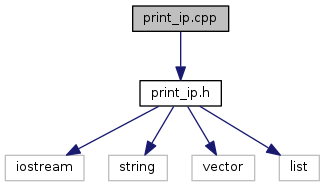
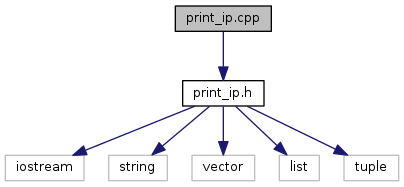
Deploy TiBxq/otus_cpp_h4 to github.com/TiBxq/otus_cpp_h4.git:gh-pages

diff --git a/print__ip_8h_source.html b/print__ip_8h_source.html
@@ -85,10 +85,10 @@ var searchBox = new SearchBox("searchBox", "search",false,'Search');
 <div class="title">print_ip.h</div>  </div>
 </div><!--header-->
 <div class="contents">
-<a href="print__ip_8h.html">Go to the documentation of this file.</a><div class="fragment"><div class="line"><a name="l00001"></a><span class="lineno">    1</span>&#160;<span class="preprocessor">#include &lt;iostream&gt;</span></div><div class="line"><a name="l00002"></a><span class="lineno">    2</span>&#160;<span class="preprocessor">#include &lt;string&gt;</span></div><div class="line"><a name="l00003"></a><span class="lineno">    3</span>&#160;<span class="preprocessor">#include &lt;vector&gt;</span></div><div class="line"><a name="l00004"></a><span class="lineno">    4</span>&#160;<span class="preprocessor">#include &lt;list&gt;</span></div><div class="line"><a name="l00005"></a><span class="lineno">    5</span>&#160;</div><div class="line"><a name="l00006"></a><span class="lineno"><a class="line" href="print__ip_8h.html#a45e94606e7bad962ffc17961ee1293c2">    6</a></span>&#160;<span class="keyword">const</span> <span class="keywordtype">int</span> <a class="code" href="print__ip_8h.html#a45e94606e7bad962ffc17961ee1293c2">c_byteSize</a> = 8;</div><div class="line"><a name="l00007"></a><span class="lineno">    7</span>&#160;</div><div class="line"><a name="l00008"></a><span class="lineno">    8</span>&#160;<span class="keyword">template</span>&lt;<span class="keyword">typename</span> T&gt;</div><div class="line"><a name="l00009"></a><span class="lineno"><a class="line" href="structis__vector.html">    9</a></span>&#160;<span class="keyword">struct </span><a class="code" href="structis__vector.html">is_vector</a> : <span class="keyword">public</span> std::false_type {};</div><div class="line"><a name="l00010"></a><span class="lineno">   10</span>&#160;</div><div class="line"><a name="l00011"></a><span class="lineno">   11</span>&#160;<span class="keyword">template</span>&lt;<span class="keyword">typename</span> T, <span class="keyword">typename</span> A&gt;</div><div class="line"><a name="l00012"></a><span class="lineno"><a class="line" href="structis__vector_3_01std_1_1vector_3_01_t_00_01_a_01_4_01_4.html">   12</a></span>&#160;<span class="keyword">struct </span><a class="code" href="structis__vector.html">is_vector</a>&lt;std::vector&lt;T, A&gt;&gt; : <span class="keyword">public</span> std::true_type {};</div><div class="line"><a name="l00013"></a><span class="lineno">   13</span>&#160;</div><div class="line"><a name="l00014"></a><span class="lineno">   14</span>&#160;<span class="keyword">template</span>&lt;<span class="keyword">typename</span> T&gt;</div><div class="line"><a name="l00015"></a><span class="lineno"><a class="line" href="structis__list.html">   15</a></span>&#160;<span class="keyword">struct </span><a class="code" href="structis__list.html">is_list</a> : <span class="keyword">public</span> std::false_type {};</div><div class="line"><a name="l00016"></a><span class="lineno">   16</span>&#160;</div><div class="line"><a name="l00017"></a><span class="lineno">   17</span>&#160;<span class="keyword">template</span>&lt;<span class="keyword">typename</span> T, <span class="keyword">typename</span> A&gt;</div><div class="line"><a name="l00018"></a><span class="lineno"><a class="line" href="structis__list_3_01std_1_1list_3_01_t_00_01_a_01_4_01_4.html">   18</a></span>&#160;<span class="keyword">struct </span><a class="code" href="structis__list.html">is_list</a>&lt;std::list&lt;T, A&gt;&gt; : <span class="keyword">public</span> std::true_type {};</div><div class="line"><a name="l00019"></a><span class="lineno">   19</span>&#160;</div><div class="line"><a name="l00020"></a><span class="lineno">   20</span>&#160;<span class="keyword">template</span>&lt;<span class="keyword">typename</span> T&gt;</div><div class="line"><a name="l00021"></a><span class="lineno"><a class="line" href="print__ip_8h.html#a3610f420073a0b75d0c002a55d706366">   21</a></span>&#160;<span class="keywordtype">void</span> <a class="code" href="print__ip_8h.html#a3610f420073a0b75d0c002a55d706366">print_ip</a>(T param, std::ostream&amp; os)</div><div class="line"><a name="l00022"></a><span class="lineno">   22</span>&#160;{</div><div class="line"><a name="l00023"></a><span class="lineno">   23</span>&#160;    <span class="keywordflow">for</span> (<span class="keywordtype">int</span> i = <span class="keyword">sizeof</span>(T) - 1; i &gt;= 0; --i)</div><div class="line"><a name="l00024"></a><span class="lineno">   24</span>&#160;    {</div><div class="line"><a name="l00025"></a><span class="lineno">   25</span>&#160;        <span class="keywordflow">if</span> (i != <span class="keyword">sizeof</span>(T) - 1)</div><div class="line"><a name="l00026"></a><span class="lineno">   26</span>&#160;        {</div><div class="line"><a name="l00027"></a><span class="lineno">   27</span>&#160;            os &lt;&lt; <span class="charliteral">&#39;.&#39;</span>;</div><div class="line"><a name="l00028"></a><span class="lineno">   28</span>&#160;        }</div><div class="line"><a name="l00029"></a><span class="lineno">   29</span>&#160;        uint8_t value = param &gt;&gt; i * <a class="code" href="print__ip_8h.html#a45e94606e7bad962ffc17961ee1293c2">c_byteSize</a>;</div><div class="line"><a name="l00030"></a><span class="lineno">   30</span>&#160;        os &lt;&lt; int(value);</div><div class="line"><a name="l00031"></a><span class="lineno">   31</span>&#160;    }</div><div class="line"><a name="l00032"></a><span class="lineno">   32</span>&#160;    os &lt;&lt; std::endl;</div><div class="line"><a name="l00033"></a><span class="lineno">   33</span>&#160;}</div><div class="line"><a name="l00034"></a><span class="lineno">   34</span>&#160;</div><div class="line"><a name="l00035"></a><span class="lineno">   35</span>&#160;<span class="keyword">template</span>&lt;&gt;</div><div class="line"><a name="l00036"></a><span class="lineno"><a class="line" href="print__ip_8h.html#a24e735d0445025c188d4f9c941b6f8cd">   36</a></span>&#160;<span class="keywordtype">void</span> <a class="code" href="print__ip_8h.html#a3610f420073a0b75d0c002a55d706366">print_ip</a>(std::string param, std::ostream&amp; os)</div><div class="line"><a name="l00037"></a><span class="lineno">   37</span>&#160;{</div><div class="line"><a name="l00038"></a><span class="lineno">   38</span>&#160;    os &lt;&lt; param &lt;&lt; std::endl;</div><div class="line"><a name="l00039"></a><span class="lineno">   39</span>&#160;}</div><div class="line"><a name="l00040"></a><span class="lineno">   40</span>&#160;</div><div class="line"><a name="l00041"></a><span class="lineno">   41</span>&#160;<span class="keyword">template</span>&lt;<span class="keyword">template</span>&lt;<span class="keyword">typename</span>, <span class="keyword">typename</span>...&gt; <span class="keyword">class </span>C, <span class="keyword">typename</span> T, <span class="keyword">typename</span>... Rest,</div><div class="line"><a name="l00042"></a><span class="lineno">   42</span>&#160;         <span class="keyword">typename</span> = <span class="keyword">typename</span> std::enable_if&lt;</div><div class="line"><a name="l00043"></a><span class="lineno">   43</span>&#160;            <a class="code" href="structis__vector.html">is_vector</a>&lt;C&lt;T, Rest...&gt;&gt;::value || <a class="code" href="structis__list.html">is_list</a>&lt;C&lt;T, Rest...&gt;&gt;::value,</div><div class="line"><a name="l00044"></a><span class="lineno">   44</span>&#160;         <span class="keywordtype">void</span>&gt;::type</div><div class="line"><a name="l00045"></a><span class="lineno">   45</span>&#160;         &gt;</div><div class="line"><a name="l00046"></a><span class="lineno"><a class="line" href="print__ip_8h.html#a884b59fb741f39ee7d1518392ba18eba">   46</a></span>&#160;<span class="keywordtype">void</span> <a class="code" href="print__ip_8h.html#a3610f420073a0b75d0c002a55d706366">print_ip</a>(C&lt;T, Rest...&gt; param, std::ostream&amp; os)</div><div class="line"><a name="l00047"></a><span class="lineno">   47</span>&#160;{</div><div class="line"><a name="l00048"></a><span class="lineno">   48</span>&#160;    <span class="keywordflow">for</span> (<span class="keyword">auto</span> it = param.begin(); it != param.end(); ++it)</div><div class="line"><a name="l00049"></a><span class="lineno">   49</span>&#160;    {</div><div class="line"><a name="l00050"></a><span class="lineno">   50</span>&#160;        <span class="keywordflow">if</span> (it != param.begin())</div><div class="line"><a name="l00051"></a><span class="lineno">   51</span>&#160;        {</div><div class="line"><a name="l00052"></a><span class="lineno">   52</span>&#160;            os &lt;&lt; <span class="charliteral">&#39;.&#39;</span>;</div><div class="line"><a name="l00053"></a><span class="lineno">   53</span>&#160;        }</div><div class="line"><a name="l00054"></a><span class="lineno">   54</span>&#160;        os &lt;&lt; *it;</div><div class="line"><a name="l00055"></a><span class="lineno">   55</span>&#160;    }</div><div class="line"><a name="l00056"></a><span class="lineno">   56</span>&#160;    os &lt;&lt; std::endl;</div><div class="line"><a name="l00057"></a><span class="lineno">   57</span>&#160;}</div><div class="ttc" id="structis__vector_html"><div class="ttname"><a href="structis__vector.html">is_vector</a></div><div class="ttdef"><b>Definition:</b> print_ip.h:9</div></div>
-<div class="ttc" id="structis__list_html"><div class="ttname"><a href="structis__list.html">is_list</a></div><div class="ttdef"><b>Definition:</b> print_ip.h:15</div></div>
-<div class="ttc" id="print__ip_8h_html_a45e94606e7bad962ffc17961ee1293c2"><div class="ttname"><a href="print__ip_8h.html#a45e94606e7bad962ffc17961ee1293c2">c_byteSize</a></div><div class="ttdeci">const int c_byteSize</div><div class="ttdef"><b>Definition:</b> print_ip.h:6</div></div>
-<div class="ttc" id="print__ip_8h_html_a3610f420073a0b75d0c002a55d706366"><div class="ttname"><a href="print__ip_8h.html#a3610f420073a0b75d0c002a55d706366">print_ip</a></div><div class="ttdeci">void print_ip(T param, std::ostream &amp;os)</div><div class="ttdef"><b>Definition:</b> print_ip.h:21</div></div>
+<a href="print__ip_8h.html">Go to the documentation of this file.</a><div class="fragment"><div class="line"><a name="l00001"></a><span class="lineno">    1</span>&#160;<span class="preprocessor">#include &lt;iostream&gt;</span></div><div class="line"><a name="l00002"></a><span class="lineno">    2</span>&#160;<span class="preprocessor">#include &lt;string&gt;</span></div><div class="line"><a name="l00003"></a><span class="lineno">    3</span>&#160;<span class="preprocessor">#include &lt;vector&gt;</span></div><div class="line"><a name="l00004"></a><span class="lineno">    4</span>&#160;<span class="preprocessor">#include &lt;list&gt;</span></div><div class="line"><a name="l00005"></a><span class="lineno">    5</span>&#160;<span class="preprocessor">#include &lt;tuple&gt;</span></div><div class="line"><a name="l00006"></a><span class="lineno">    6</span>&#160;</div><div class="line"><a name="l00007"></a><span class="lineno"><a class="line" href="print__ip_8h.html#a45e94606e7bad962ffc17961ee1293c2">    7</a></span>&#160;<span class="keyword">const</span> <span class="keywordtype">int</span> <a class="code" href="print__ip_8h.html#a45e94606e7bad962ffc17961ee1293c2">c_byteSize</a> = 8;</div><div class="line"><a name="l00008"></a><span class="lineno">    8</span>&#160;</div><div class="line"><a name="l00009"></a><span class="lineno">    9</span>&#160;<span class="keyword">template</span>&lt;<span class="keyword">typename</span> T&gt;</div><div class="line"><a name="l00010"></a><span class="lineno"><a class="line" href="structis__vector.html">   10</a></span>&#160;<span class="keyword">struct </span><a class="code" href="structis__vector.html">is_vector</a> : <span class="keyword">public</span> std::false_type {};</div><div class="line"><a name="l00011"></a><span class="lineno">   11</span>&#160;</div><div class="line"><a name="l00012"></a><span class="lineno">   12</span>&#160;<span class="keyword">template</span>&lt;<span class="keyword">typename</span> T, <span class="keyword">typename</span> A&gt;</div><div class="line"><a name="l00013"></a><span class="lineno"><a class="line" href="structis__vector_3_01std_1_1vector_3_01_t_00_01_a_01_4_01_4.html">   13</a></span>&#160;<span class="keyword">struct </span><a class="code" href="structis__vector.html">is_vector</a>&lt;std::vector&lt;T, A&gt;&gt; : <span class="keyword">public</span> std::true_type {};</div><div class="line"><a name="l00014"></a><span class="lineno">   14</span>&#160;</div><div class="line"><a name="l00015"></a><span class="lineno">   15</span>&#160;<span class="keyword">template</span>&lt;<span class="keyword">typename</span> T&gt;</div><div class="line"><a name="l00016"></a><span class="lineno"><a class="line" href="structis__list.html">   16</a></span>&#160;<span class="keyword">struct </span><a class="code" href="structis__list.html">is_list</a> : <span class="keyword">public</span> std::false_type {};</div><div class="line"><a name="l00017"></a><span class="lineno">   17</span>&#160;</div><div class="line"><a name="l00018"></a><span class="lineno">   18</span>&#160;<span class="keyword">template</span>&lt;<span class="keyword">typename</span> T, <span class="keyword">typename</span> A&gt;</div><div class="line"><a name="l00019"></a><span class="lineno"><a class="line" href="structis__list_3_01std_1_1list_3_01_t_00_01_a_01_4_01_4.html">   19</a></span>&#160;<span class="keyword">struct </span><a class="code" href="structis__list.html">is_list</a>&lt;std::list&lt;T, A&gt;&gt; : <span class="keyword">public</span> std::true_type {};</div><div class="line"><a name="l00020"></a><span class="lineno">   20</span>&#160;</div><div class="line"><a name="l00021"></a><span class="lineno">   21</span>&#160;<span class="keyword">template</span>&lt;<span class="keyword">typename</span> T&gt;</div><div class="line"><a name="l00022"></a><span class="lineno"><a class="line" href="print__ip_8h.html#a953472218e9f8056dd99ec63e8dbbfc0">   22</a></span>&#160;<span class="keywordtype">void</span> <a class="code" href="print__ip_8h.html#a953472218e9f8056dd99ec63e8dbbfc0">print_ip</a>(<span class="keyword">const</span> T&amp; param, std::ostream&amp; os)</div><div class="line"><a name="l00023"></a><span class="lineno">   23</span>&#160;{</div><div class="line"><a name="l00024"></a><span class="lineno">   24</span>&#160;    <span class="keywordflow">for</span> (<span class="keywordtype">int</span> i = <span class="keyword">sizeof</span>(T) - 1; i &gt;= 0; --i)</div><div class="line"><a name="l00025"></a><span class="lineno">   25</span>&#160;    {</div><div class="line"><a name="l00026"></a><span class="lineno">   26</span>&#160;        <span class="keywordflow">if</span> (i != <span class="keyword">sizeof</span>(T) - 1)</div><div class="line"><a name="l00027"></a><span class="lineno">   27</span>&#160;        {</div><div class="line"><a name="l00028"></a><span class="lineno">   28</span>&#160;            os &lt;&lt; <span class="charliteral">&#39;.&#39;</span>;</div><div class="line"><a name="l00029"></a><span class="lineno">   29</span>&#160;        }</div><div class="line"><a name="l00030"></a><span class="lineno">   30</span>&#160;        uint8_t value = param &gt;&gt; i * <a class="code" href="print__ip_8h.html#a45e94606e7bad962ffc17961ee1293c2">c_byteSize</a>;</div><div class="line"><a name="l00031"></a><span class="lineno">   31</span>&#160;        os &lt;&lt; int(value);</div><div class="line"><a name="l00032"></a><span class="lineno">   32</span>&#160;    }</div><div class="line"><a name="l00033"></a><span class="lineno">   33</span>&#160;    os &lt;&lt; std::endl;</div><div class="line"><a name="l00034"></a><span class="lineno">   34</span>&#160;}</div><div class="line"><a name="l00035"></a><span class="lineno">   35</span>&#160;</div><div class="line"><a name="l00036"></a><span class="lineno">   36</span>&#160;<span class="keyword">template</span>&lt;&gt;</div><div class="line"><a name="l00037"></a><span class="lineno"><a class="line" href="print__ip_8h.html#adcbec7526df4c887c68e139316b5c6af">   37</a></span>&#160;<span class="keywordtype">void</span> <a class="code" href="print__ip_8h.html#a953472218e9f8056dd99ec63e8dbbfc0">print_ip</a>(<span class="keyword">const</span> std::string&amp; param, std::ostream&amp; os)</div><div class="line"><a name="l00038"></a><span class="lineno">   38</span>&#160;{</div><div class="line"><a name="l00039"></a><span class="lineno">   39</span>&#160;    os &lt;&lt; param &lt;&lt; std::endl;</div><div class="line"><a name="l00040"></a><span class="lineno">   40</span>&#160;}</div><div class="line"><a name="l00041"></a><span class="lineno">   41</span>&#160;</div><div class="line"><a name="l00042"></a><span class="lineno">   42</span>&#160;<span class="keyword">template</span>&lt;<span class="keyword">template</span>&lt;<span class="keyword">typename</span>, <span class="keyword">typename</span>...&gt; <span class="keyword">class </span>C, <span class="keyword">typename</span> T, <span class="keyword">typename</span>... Rest,</div><div class="line"><a name="l00043"></a><span class="lineno">   43</span>&#160;         <span class="keyword">typename</span> = <span class="keyword">typename</span> std::enable_if&lt;</div><div class="line"><a name="l00044"></a><span class="lineno">   44</span>&#160;            <a class="code" href="structis__vector.html">is_vector</a>&lt;C&lt;T, Rest...&gt;&gt;::value || <a class="code" href="structis__list.html">is_list</a>&lt;C&lt;T, Rest...&gt;&gt;::value,</div><div class="line"><a name="l00045"></a><span class="lineno">   45</span>&#160;         <span class="keywordtype">void</span>&gt;::type</div><div class="line"><a name="l00046"></a><span class="lineno">   46</span>&#160;         &gt;</div><div class="line"><a name="l00047"></a><span class="lineno"><a class="line" href="print__ip_8h.html#aac5cac1154e3e758b0495e8223261dba">   47</a></span>&#160;<span class="keywordtype">void</span> <a class="code" href="print__ip_8h.html#a953472218e9f8056dd99ec63e8dbbfc0">print_ip</a>(<span class="keyword">const</span> C&lt;T, Rest...&gt;&amp; param, std::ostream&amp; os)</div><div class="line"><a name="l00048"></a><span class="lineno">   48</span>&#160;{</div><div class="line"><a name="l00049"></a><span class="lineno">   49</span>&#160;    <span class="keywordflow">for</span> (<span class="keyword">auto</span> it = param.begin(); it != param.end(); ++it)</div><div class="line"><a name="l00050"></a><span class="lineno">   50</span>&#160;    {</div><div class="line"><a name="l00051"></a><span class="lineno">   51</span>&#160;        <span class="keywordflow">if</span> (it != param.begin())</div><div class="line"><a name="l00052"></a><span class="lineno">   52</span>&#160;        {</div><div class="line"><a name="l00053"></a><span class="lineno">   53</span>&#160;            os &lt;&lt; <span class="charliteral">&#39;.&#39;</span>;</div><div class="line"><a name="l00054"></a><span class="lineno">   54</span>&#160;        }</div><div class="line"><a name="l00055"></a><span class="lineno">   55</span>&#160;        os &lt;&lt; *it;</div><div class="line"><a name="l00056"></a><span class="lineno">   56</span>&#160;    }</div><div class="line"><a name="l00057"></a><span class="lineno">   57</span>&#160;    os &lt;&lt; std::endl;</div><div class="line"><a name="l00058"></a><span class="lineno">   58</span>&#160;}</div><div class="line"><a name="l00059"></a><span class="lineno">   59</span>&#160;</div><div class="line"><a name="l00060"></a><span class="lineno">   60</span>&#160;<span class="comment">//template&lt;std::size_t I = 0, typename ...Args&gt;</span></div><div class="line"><a name="l00061"></a><span class="lineno">   61</span>&#160;<span class="comment">//typename std::enable_if&lt;I == sizeof...(Args), void&gt;::type</span></div><div class="line"><a name="l00062"></a><span class="lineno">   62</span>&#160;<span class="comment">//print_ip(const std::tuple&lt;Args...&gt;&amp;, std::ostream&amp;) {}</span></div><div class="line"><a name="l00063"></a><span class="lineno">   63</span>&#160;<span class="comment">//</span></div><div class="line"><a name="l00064"></a><span class="lineno">   64</span>&#160;<span class="comment">//template&lt;std::size_t I = 0, typename ...Args&gt;</span></div><div class="line"><a name="l00065"></a><span class="lineno">   65</span>&#160;<span class="comment">//typename std::enable_if&lt;I &lt; sizeof...(Args), void&gt;::type</span></div><div class="line"><a name="l00066"></a><span class="lineno">   66</span>&#160;<span class="comment">//print_ip(const std::tuple&lt;Args...&gt;&amp; param, std::ostream&amp; os)</span></div><div class="line"><a name="l00067"></a><span class="lineno">   67</span>&#160;<span class="comment">//{</span></div><div class="line"><a name="l00068"></a><span class="lineno">   68</span>&#160;<span class="comment">//    if (I != 0)</span></div><div class="line"><a name="l00069"></a><span class="lineno">   69</span>&#160;<span class="comment">//    {</span></div><div class="line"><a name="l00070"></a><span class="lineno">   70</span>&#160;<span class="comment">//        os &lt;&lt; &#39;.&#39;;</span></div><div class="line"><a name="l00071"></a><span class="lineno">   71</span>&#160;<span class="comment">//    }</span></div><div class="line"><a name="l00072"></a><span class="lineno">   72</span>&#160;<span class="comment">//    os &lt;&lt; std::get&lt;I&gt;(param);</span></div><div class="line"><a name="l00073"></a><span class="lineno">   73</span>&#160;<span class="comment">//    print_ip&lt;I + 1, Args...&gt;(param, os);</span></div><div class="line"><a name="l00074"></a><span class="lineno">   74</span>&#160;<span class="comment">//}</span></div><div class="ttc" id="structis__vector_html"><div class="ttname"><a href="structis__vector.html">is_vector</a></div><div class="ttdef"><b>Definition:</b> print_ip.h:10</div></div>
+<div class="ttc" id="structis__list_html"><div class="ttname"><a href="structis__list.html">is_list</a></div><div class="ttdef"><b>Definition:</b> print_ip.h:16</div></div>
+<div class="ttc" id="print__ip_8h_html_a45e94606e7bad962ffc17961ee1293c2"><div class="ttname"><a href="print__ip_8h.html#a45e94606e7bad962ffc17961ee1293c2">c_byteSize</a></div><div class="ttdeci">const int c_byteSize</div><div class="ttdef"><b>Definition:</b> print_ip.h:7</div></div>
+<div class="ttc" id="print__ip_8h_html_a953472218e9f8056dd99ec63e8dbbfc0"><div class="ttname"><a href="print__ip_8h.html#a953472218e9f8056dd99ec63e8dbbfc0">print_ip</a></div><div class="ttdeci">void print_ip(const T &amp;param, std::ostream &amp;os)</div><div class="ttdef"><b>Definition:</b> print_ip.h:22</div></div>
 </div><!-- fragment --></div><!-- contents -->
 <!-- start footer part -->
 <hr class="footer"/><address class="footer"><small>

diff --git a/print__ip__test_8cpp.html b/print__ip__test_8cpp.html
@@ -101,19 +101,19 @@ Include dependency graph for print_ip_test.cpp:</div>
 </div><table class="memberdecls">
 <tr class="heading"><td colspan="2"><h2 class="groupheader"><a name="func-members"></a>
 Functions</h2></td></tr>
-<tr class="memitem:a7df4076bbc0a749a1c32a00f195ab2ed"><td class="memItemLeft" align="right" valign="top">&#160;</td><td class="memItemRight" valign="bottom"><a class="el" href="print__ip__test_8cpp.html#a7df4076bbc0a749a1c32a00f195ab2ed">TEST</a> (<a class="el" href="print__ip_8h.html#a884b59fb741f39ee7d1518392ba18eba">print_ip</a>, print_ip_test_char)</td></tr>
+<tr class="memitem:a7df4076bbc0a749a1c32a00f195ab2ed"><td class="memItemLeft" align="right" valign="top">&#160;</td><td class="memItemRight" valign="bottom"><a class="el" href="print__ip__test_8cpp.html#a7df4076bbc0a749a1c32a00f195ab2ed">TEST</a> (<a class="el" href="print__ip_8h.html#aac5cac1154e3e758b0495e8223261dba">print_ip</a>, print_ip_test_char)</td></tr>
 <tr class="separator:a7df4076bbc0a749a1c32a00f195ab2ed"><td class="memSeparator" colspan="2">&#160;</td></tr>
-<tr class="memitem:a16a7bdc6c0b356b0f90484af7e1af4f0"><td class="memItemLeft" align="right" valign="top">&#160;</td><td class="memItemRight" valign="bottom"><a class="el" href="print__ip__test_8cpp.html#a16a7bdc6c0b356b0f90484af7e1af4f0">TEST</a> (<a class="el" href="print__ip_8h.html#a884b59fb741f39ee7d1518392ba18eba">print_ip</a>, print_ip_test_short)</td></tr>
+<tr class="memitem:a16a7bdc6c0b356b0f90484af7e1af4f0"><td class="memItemLeft" align="right" valign="top">&#160;</td><td class="memItemRight" valign="bottom"><a class="el" href="print__ip__test_8cpp.html#a16a7bdc6c0b356b0f90484af7e1af4f0">TEST</a> (<a class="el" href="print__ip_8h.html#aac5cac1154e3e758b0495e8223261dba">print_ip</a>, print_ip_test_short)</td></tr>
 <tr class="separator:a16a7bdc6c0b356b0f90484af7e1af4f0"><td class="memSeparator" colspan="2">&#160;</td></tr>
-<tr class="memitem:a765a036d9e84dc096599cc91216c8d89"><td class="memItemLeft" align="right" valign="top">&#160;</td><td class="memItemRight" valign="bottom"><a class="el" href="print__ip__test_8cpp.html#a765a036d9e84dc096599cc91216c8d89">TEST</a> (<a class="el" href="print__ip_8h.html#a884b59fb741f39ee7d1518392ba18eba">print_ip</a>, print_ip_test_int)</td></tr>
+<tr class="memitem:a765a036d9e84dc096599cc91216c8d89"><td class="memItemLeft" align="right" valign="top">&#160;</td><td class="memItemRight" valign="bottom"><a class="el" href="print__ip__test_8cpp.html#a765a036d9e84dc096599cc91216c8d89">TEST</a> (<a class="el" href="print__ip_8h.html#aac5cac1154e3e758b0495e8223261dba">print_ip</a>, print_ip_test_int)</td></tr>
 <tr class="separator:a765a036d9e84dc096599cc91216c8d89"><td class="memSeparator" colspan="2">&#160;</td></tr>
-<tr class="memitem:adc958caa282dee15f1b15143df9840e6"><td class="memItemLeft" align="right" valign="top">&#160;</td><td class="memItemRight" valign="bottom"><a class="el" href="print__ip__test_8cpp.html#adc958caa282dee15f1b15143df9840e6">TEST</a> (<a class="el" href="print__ip_8h.html#a884b59fb741f39ee7d1518392ba18eba">print_ip</a>, print_ip_test_long)</td></tr>
+<tr class="memitem:adc958caa282dee15f1b15143df9840e6"><td class="memItemLeft" align="right" valign="top">&#160;</td><td class="memItemRight" valign="bottom"><a class="el" href="print__ip__test_8cpp.html#adc958caa282dee15f1b15143df9840e6">TEST</a> (<a class="el" href="print__ip_8h.html#aac5cac1154e3e758b0495e8223261dba">print_ip</a>, print_ip_test_long)</td></tr>
 <tr class="separator:adc958caa282dee15f1b15143df9840e6"><td class="memSeparator" colspan="2">&#160;</td></tr>
-<tr class="memitem:ab573d6de148ae2b0835a7345a19c427c"><td class="memItemLeft" align="right" valign="top">&#160;</td><td class="memItemRight" valign="bottom"><a class="el" href="print__ip__test_8cpp.html#ab573d6de148ae2b0835a7345a19c427c">TEST</a> (<a class="el" href="print__ip_8h.html#a884b59fb741f39ee7d1518392ba18eba">print_ip</a>, print_ip_test_string)</td></tr>
+<tr class="memitem:ab573d6de148ae2b0835a7345a19c427c"><td class="memItemLeft" align="right" valign="top">&#160;</td><td class="memItemRight" valign="bottom"><a class="el" href="print__ip__test_8cpp.html#ab573d6de148ae2b0835a7345a19c427c">TEST</a> (<a class="el" href="print__ip_8h.html#aac5cac1154e3e758b0495e8223261dba">print_ip</a>, print_ip_test_string)</td></tr>
 <tr class="separator:ab573d6de148ae2b0835a7345a19c427c"><td class="memSeparator" colspan="2">&#160;</td></tr>
-<tr class="memitem:ae7bdc526a076d36d168ec70aa20fbade"><td class="memItemLeft" align="right" valign="top">&#160;</td><td class="memItemRight" valign="bottom"><a class="el" href="print__ip__test_8cpp.html#ae7bdc526a076d36d168ec70aa20fbade">TEST</a> (<a class="el" href="print__ip_8h.html#a884b59fb741f39ee7d1518392ba18eba">print_ip</a>, print_ip_test_vector)</td></tr>
+<tr class="memitem:ae7bdc526a076d36d168ec70aa20fbade"><td class="memItemLeft" align="right" valign="top">&#160;</td><td class="memItemRight" valign="bottom"><a class="el" href="print__ip__test_8cpp.html#ae7bdc526a076d36d168ec70aa20fbade">TEST</a> (<a class="el" href="print__ip_8h.html#aac5cac1154e3e758b0495e8223261dba">print_ip</a>, print_ip_test_vector)</td></tr>
 <tr class="separator:ae7bdc526a076d36d168ec70aa20fbade"><td class="memSeparator" colspan="2">&#160;</td></tr>
-<tr class="memitem:aaab8b7cb7eff5af9e0abd306c944c53f"><td class="memItemLeft" align="right" valign="top">&#160;</td><td class="memItemRight" valign="bottom"><a class="el" href="print__ip__test_8cpp.html#aaab8b7cb7eff5af9e0abd306c944c53f">TEST</a> (<a class="el" href="print__ip_8h.html#a884b59fb741f39ee7d1518392ba18eba">print_ip</a>, print_ip_test_list)</td></tr>
+<tr class="memitem:aaab8b7cb7eff5af9e0abd306c944c53f"><td class="memItemLeft" align="right" valign="top">&#160;</td><td class="memItemRight" valign="bottom"><a class="el" href="print__ip__test_8cpp.html#aaab8b7cb7eff5af9e0abd306c944c53f">TEST</a> (<a class="el" href="print__ip_8h.html#aac5cac1154e3e758b0495e8223261dba">print_ip</a>, print_ip_test_list)</td></tr>
 <tr class="separator:aaab8b7cb7eff5af9e0abd306c944c53f"><td class="memSeparator" colspan="2">&#160;</td></tr>
 <tr class="memitem:a0ddf1224851353fc92bfbff6f499fa97"><td class="memItemLeft" align="right" valign="top">int&#160;</td><td class="memItemRight" valign="bottom"><a class="el" href="print__ip__test_8cpp.html#a0ddf1224851353fc92bfbff6f499fa97">main</a> (int argc, char *argv[])</td></tr>
 <tr class="separator:a0ddf1224851353fc92bfbff6f499fa97"><td class="memSeparator" colspan="2">&#160;</td></tr>
@@ -152,7 +152,7 @@ Functions</h2></td></tr>
         <tr>
           <td class="memname">TEST </td>
           <td>(</td>
-          <td class="paramtype"><a class="el" href="print__ip_8h.html#a884b59fb741f39ee7d1518392ba18eba">print_ip</a>&#160;</td>
+          <td class="paramtype"><a class="el" href="print__ip_8h.html#aac5cac1154e3e758b0495e8223261dba">print_ip</a>&#160;</td>
           <td class="paramname">, </td>
         </tr>
         <tr>
@@ -178,7 +178,7 @@ Functions</h2></td></tr>
         <tr>
           <td class="memname">TEST </td>
           <td>(</td>
-          <td class="paramtype"><a class="el" href="print__ip_8h.html#a884b59fb741f39ee7d1518392ba18eba">print_ip</a>&#160;</td>
+          <td class="paramtype"><a class="el" href="print__ip_8h.html#aac5cac1154e3e758b0495e8223261dba">print_ip</a>&#160;</td>
           <td class="paramname">, </td>
         </tr>
         <tr>
@@ -204,7 +204,7 @@ Functions</h2></td></tr>
         <tr>
           <td class="memname">TEST </td>
           <td>(</td>
-          <td class="paramtype"><a class="el" href="print__ip_8h.html#a884b59fb741f39ee7d1518392ba18eba">print_ip</a>&#160;</td>
+          <td class="paramtype"><a class="el" href="print__ip_8h.html#aac5cac1154e3e758b0495e8223261dba">print_ip</a>&#160;</td>
           <td class="paramname">, </td>
         </tr>
         <tr>
@@ -230,7 +230,7 @@ Functions</h2></td></tr>
         <tr>
           <td class="memname">TEST </td>
           <td>(</td>
-          <td class="paramtype"><a class="el" href="print__ip_8h.html#a884b59fb741f39ee7d1518392ba18eba">print_ip</a>&#160;</td>
+          <td class="paramtype"><a class="el" href="print__ip_8h.html#aac5cac1154e3e758b0495e8223261dba">print_ip</a>&#160;</td>
           <td class="paramname">, </td>
         </tr>
         <tr>
@@ -256,7 +256,7 @@ Functions</h2></td></tr>
         <tr>
           <td class="memname">TEST </td>
           <td>(</td>
-          <td class="paramtype"><a class="el" href="print__ip_8h.html#a884b59fb741f39ee7d1518392ba18eba">print_ip</a>&#160;</td>
+          <td class="paramtype"><a class="el" href="print__ip_8h.html#aac5cac1154e3e758b0495e8223261dba">print_ip</a>&#160;</td>
           <td class="paramname">, </td>
         </tr>
         <tr>
@@ -282,7 +282,7 @@ Functions</h2></td></tr>
         <tr>
           <td class="memname">TEST </td>
           <td>(</td>
-          <td class="paramtype"><a class="el" href="print__ip_8h.html#a884b59fb741f39ee7d1518392ba18eba">print_ip</a>&#160;</td>
+          <td class="paramtype"><a class="el" href="print__ip_8h.html#aac5cac1154e3e758b0495e8223261dba">print_ip</a>&#160;</td>
           <td class="paramname">, </td>
         </tr>
         <tr>
@@ -308,7 +308,7 @@ Functions</h2></td></tr>
         <tr>
           <td class="memname">TEST </td>
           <td>(</td>
-          <td class="paramtype"><a class="el" href="print__ip_8h.html#a884b59fb741f39ee7d1518392ba18eba">print_ip</a>&#160;</td>
+          <td class="paramtype"><a class="el" href="print__ip_8h.html#aac5cac1154e3e758b0495e8223261dba">print_ip</a>&#160;</td>
           <td class="paramname">, </td>
         </tr>
         <tr>

diff --git a/print__ip_8h.html b/print__ip_8h.html
@@ -93,6 +93,7 @@ var searchBox = new SearchBox("searchBox", "search",false,'Search');
 <code>#include &lt;string&gt;</code><br />
 <code>#include &lt;vector&gt;</code><br />
 <code>#include &lt;list&gt;</code><br />
+<code>#include &lt;tuple&gt;</code><br />
 </div><div class="textblock"><div class="dynheader">
 Include dependency graph for print_ip.h:</div>
 <div class="dyncontent">
@@ -125,15 +126,15 @@ Classes</h2></td></tr>
 </table><table class="memberdecls">
 <tr class="heading"><td colspan="2"><h2 class="groupheader"><a name="func-members"></a>
 Functions</h2></td></tr>
-<tr class="memitem:a3610f420073a0b75d0c002a55d706366"><td class="memTemplParams" colspan="2">template&lt;typename T &gt; </td></tr>
-<tr class="memitem:a3610f420073a0b75d0c002a55d706366"><td class="memTemplItemLeft" align="right" valign="top">void&#160;</td><td class="memTemplItemRight" valign="bottom"><a class="el" href="print__ip_8h.html#a3610f420073a0b75d0c002a55d706366">print_ip</a> (T param, std::ostream &amp;os)</td></tr>
-<tr class="separator:a3610f420073a0b75d0c002a55d706366"><td class="memSeparator" colspan="2">&#160;</td></tr>
-<tr class="memitem:a24e735d0445025c188d4f9c941b6f8cd"><td class="memTemplParams" colspan="2">template&lt;&gt; </td></tr>
-<tr class="memitem:a24e735d0445025c188d4f9c941b6f8cd"><td class="memTemplItemLeft" align="right" valign="top">void&#160;</td><td class="memTemplItemRight" valign="bottom"><a class="el" href="print__ip_8h.html#a24e735d0445025c188d4f9c941b6f8cd">print_ip</a> (std::string param, std::ostream &amp;os)</td></tr>
-<tr class="separator:a24e735d0445025c188d4f9c941b6f8cd"><td class="memSeparator" colspan="2">&#160;</td></tr>
-<tr class="memitem:a884b59fb741f39ee7d1518392ba18eba"><td class="memTemplParams" colspan="2">template&lt;template&lt; typename, typename... &gt; class C, typename T , typename... Rest, typename  = typename std::enable_if&lt;            is_vector&lt;C&lt;T, Rest...&gt;&gt;::value || is_list&lt;C&lt;T, Rest...&gt;&gt;::value,         void&gt;::type&gt; </td></tr>
-<tr class="memitem:a884b59fb741f39ee7d1518392ba18eba"><td class="memTemplItemLeft" align="right" valign="top">void&#160;</td><td class="memTemplItemRight" valign="bottom"><a class="el" href="print__ip_8h.html#a884b59fb741f39ee7d1518392ba18eba">print_ip</a> (C&lt; T, Rest... &gt; param, std::ostream &amp;os)</td></tr>
-<tr class="separator:a884b59fb741f39ee7d1518392ba18eba"><td class="memSeparator" colspan="2">&#160;</td></tr>
+<tr class="memitem:a953472218e9f8056dd99ec63e8dbbfc0"><td class="memTemplParams" colspan="2">template&lt;typename T &gt; </td></tr>
+<tr class="memitem:a953472218e9f8056dd99ec63e8dbbfc0"><td class="memTemplItemLeft" align="right" valign="top">void&#160;</td><td class="memTemplItemRight" valign="bottom"><a class="el" href="print__ip_8h.html#a953472218e9f8056dd99ec63e8dbbfc0">print_ip</a> (const T &amp;param, std::ostream &amp;os)</td></tr>
+<tr class="separator:a953472218e9f8056dd99ec63e8dbbfc0"><td class="memSeparator" colspan="2">&#160;</td></tr>
+<tr class="memitem:adcbec7526df4c887c68e139316b5c6af"><td class="memTemplParams" colspan="2">template&lt;&gt; </td></tr>
+<tr class="memitem:adcbec7526df4c887c68e139316b5c6af"><td class="memTemplItemLeft" align="right" valign="top">void&#160;</td><td class="memTemplItemRight" valign="bottom"><a class="el" href="print__ip_8h.html#adcbec7526df4c887c68e139316b5c6af">print_ip</a> (const std::string &amp;param, std::ostream &amp;os)</td></tr>
+<tr class="separator:adcbec7526df4c887c68e139316b5c6af"><td class="memSeparator" colspan="2">&#160;</td></tr>
+<tr class="memitem:aac5cac1154e3e758b0495e8223261dba"><td class="memTemplParams" colspan="2">template&lt;template&lt; typename, typename... &gt; class C, typename T , typename... Rest, typename  = typename std::enable_if&lt;            is_vector&lt;C&lt;T, Rest...&gt;&gt;::value || is_list&lt;C&lt;T, Rest...&gt;&gt;::value,         void&gt;::type&gt; </td></tr>
+<tr class="memitem:aac5cac1154e3e758b0495e8223261dba"><td class="memTemplItemLeft" align="right" valign="top">void&#160;</td><td class="memTemplItemRight" valign="bottom"><a class="el" href="print__ip_8h.html#aac5cac1154e3e758b0495e8223261dba">print_ip</a> (const C&lt; T, Rest... &gt; &amp;param, std::ostream &amp;os)</td></tr>
+<tr class="separator:aac5cac1154e3e758b0495e8223261dba"><td class="memSeparator" colspan="2">&#160;</td></tr>
 </table><table class="memberdecls">
 <tr class="heading"><td colspan="2"><h2 class="groupheader"><a name="var-members"></a>
 Variables</h2></td></tr>
@@ -141,7 +142,7 @@ Variables</h2></td></tr>
 <tr class="separator:a45e94606e7bad962ffc17961ee1293c2"><td class="memSeparator" colspan="2">&#160;</td></tr>
 </table>
 <h2 class="groupheader">Function Documentation</h2>
-<a class="anchor" id="a3610f420073a0b75d0c002a55d706366"></a>
+<a class="anchor" id="a953472218e9f8056dd99ec63e8dbbfc0"></a>
 <div class="memitem">
 <div class="memproto">
 <div class="memtemplate">
@@ -150,7 +151,7 @@ template&lt;typename T &gt; </div>
         <tr>
           <td class="memname">void print_ip </td>
           <td>(</td>
-          <td class="paramtype">T&#160;</td>
+          <td class="paramtype">const T &amp;&#160;</td>
           <td class="paramname"><em>param</em>, </td>
         </tr>
         <tr>
@@ -169,7 +170,7 @@ template&lt;typename T &gt; </div>
 
 </div>
 </div>
-<a class="anchor" id="a24e735d0445025c188d4f9c941b6f8cd"></a>
+<a class="anchor" id="adcbec7526df4c887c68e139316b5c6af"></a>
 <div class="memitem">
 <div class="memproto">
 <div class="memtemplate">
@@ -178,7 +179,7 @@ template&lt;&gt; </div>
         <tr>
           <td class="memname">void print_ip </td>
           <td>(</td>
-          <td class="paramtype">std::string&#160;</td>
+          <td class="paramtype">const std::string &amp;&#160;</td>
           <td class="paramname"><em>param</em>, </td>
         </tr>
         <tr>
@@ -197,7 +198,7 @@ template&lt;&gt; </div>
 
 </div>
 </div>
-<a class="anchor" id="a884b59fb741f39ee7d1518392ba18eba"></a>
+<a class="anchor" id="aac5cac1154e3e758b0495e8223261dba"></a>
 <div class="memitem">
 <div class="memproto">
 <div class="memtemplate">
@@ -206,7 +207,7 @@ template&lt;template&lt; typename, typename... &gt; class C, typename T , typena
         <tr>
           <td class="memname">void print_ip </td>
           <td>(</td>
-          <td class="paramtype">C&lt; T, Rest... &gt;&#160;</td>
+          <td class="paramtype">const C&lt; T, Rest... &gt; &amp;&#160;</td>
           <td class="paramname"><em>param</em>, </td>
         </tr>
         <tr>

diff --git a/search/all_4.js b/search/all_4.js
@@ -1,6 +1,6 @@
 var searchData=
 [
-  ['print_5fip',['print_ip',['../print__ip_8h.html#a3610f420073a0b75d0c002a55d706366',1,'print_ip(T param, std::ostream &amp;os):&#160;print_ip.h'],['../print__ip_8h.html#a24e735d0445025c188d4f9c941b6f8cd',1,'print_ip(std::string param, std::ostream &amp;os):&#160;print_ip.h'],['../print__ip_8h.html#a884b59fb741f39ee7d1518392ba18eba',1,'print_ip(C&lt; T, Rest... &gt; param, std::ostream &amp;os):&#160;print_ip.h']]],
+  ['print_5fip',['print_ip',['../print__ip_8h.html#a953472218e9f8056dd99ec63e8dbbfc0',1,'print_ip(const T &amp;param, std::ostream &amp;os):&#160;print_ip.h'],['../print__ip_8h.html#adcbec7526df4c887c68e139316b5c6af',1,'print_ip(const std::string &amp;param, std::ostream &amp;os):&#160;print_ip.h'],['../print__ip_8h.html#aac5cac1154e3e758b0495e8223261dba',1,'print_ip(const C&lt; T, Rest... &gt; &amp;param, std::ostream &amp;os):&#160;print_ip.h']]],
   ['print_5fip_2ecpp',['print_ip.cpp',['../print__ip_8cpp.html',1,'']]],
   ['print_5fip_2eh',['print_ip.h',['../print__ip_8h.html',1,'']]],
   ['print_5fip_5ftest_2ecpp',['print_ip_test.cpp',['../print__ip__test_8cpp.html',1,'']]]

diff --git a/search/functions_1.js b/search/functions_1.js
@@ -1,4 +1,4 @@
 var searchData=
 [
-  ['print_5fip',['print_ip',['../print__ip_8h.html#a3610f420073a0b75d0c002a55d706366',1,'print_ip(T param, std::ostream &amp;os):&#160;print_ip.h'],['../print__ip_8h.html#a24e735d0445025c188d4f9c941b6f8cd',1,'print_ip(std::string param, std::ostream &amp;os):&#160;print_ip.h'],['../print__ip_8h.html#a884b59fb741f39ee7d1518392ba18eba',1,'print_ip(C&lt; T, Rest... &gt; param, std::ostream &amp;os):&#160;print_ip.h']]]
+  ['print_5fip',['print_ip',['../print__ip_8h.html#a953472218e9f8056dd99ec63e8dbbfc0',1,'print_ip(const T &amp;param, std::ostream &amp;os):&#160;print_ip.h'],['../print__ip_8h.html#adcbec7526df4c887c68e139316b5c6af',1,'print_ip(const std::string &amp;param, std::ostream &amp;os):&#160;print_ip.h'],['../print__ip_8h.html#aac5cac1154e3e758b0495e8223261dba',1,'print_ip(const C&lt; T, Rest... &gt; &amp;param, std::ostream &amp;os):&#160;print_ip.h']]]
 ];

diff --git a/globals.html b/globals.html
@@ -97,7 +97,7 @@ var searchBox = new SearchBox("searchBox", "search",false,'Search');
 , <a class="el" href="print__ip__test_8cpp.html#a0ddf1224851353fc92bfbff6f499fa97">print_ip_test.cpp</a>
 </li>
 <li>print_ip()
-: <a class="el" href="print__ip_8h.html#a3610f420073a0b75d0c002a55d706366">print_ip.h</a>
+: <a class="el" href="print__ip_8h.html#a953472218e9f8056dd99ec63e8dbbfc0">print_ip.h</a>
 </li>
 <li>TEST()
 : <a class="el" href="print__ip__test_8cpp.html#a7df4076bbc0a749a1c32a00f195ab2ed">print_ip_test.cpp</a>

diff --git a/globals_func.html b/globals_func.html
@@ -94,7 +94,7 @@ var searchBox = new SearchBox("searchBox", "search",false,'Search');
 , <a class="el" href="print__ip__test_8cpp.html#a0ddf1224851353fc92bfbff6f499fa97">print_ip_test.cpp</a>
 </li>
 <li>print_ip()
-: <a class="el" href="print__ip_8h.html#a3610f420073a0b75d0c002a55d706366">print_ip.h</a>
+: <a class="el" href="print__ip_8h.html#a953472218e9f8056dd99ec63e8dbbfc0">print_ip.h</a>
 </li>
 <li>TEST()
 : <a class="el" href="print__ip__test_8cpp.html#a7df4076bbc0a749a1c32a00f195ab2ed">print_ip_test.cpp</a>

diff --git a/print__ip_8cpp.html b/print__ip_8cpp.html
@@ -93,7 +93,7 @@ Include dependency graph for print_ip.cpp:</div>
 <div class="dyncontent">
 <div class="center"><img src="print__ip_8cpp__incl.png" border="0" usemap="#print__ip_8cpp" alt=""/></div>
 <map name="print__ip_8cpp" id="print__ip_8cpp">
-<area shape="rect" id="node2" href="print__ip_8h.html" title="print_ip.h" alt="" coords="140,80,221,107"/>
+<area shape="rect" id="node2" href="print__ip_8h.html" title="print_ip.h" alt="" coords="183,80,264,107"/>
 </map>
 </div>
 </div><table class="memberdecls">
